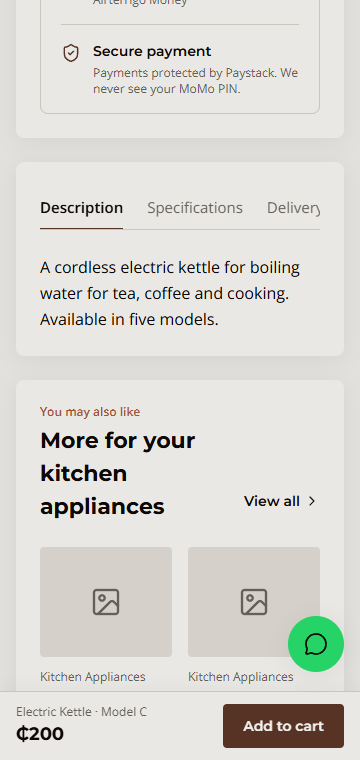
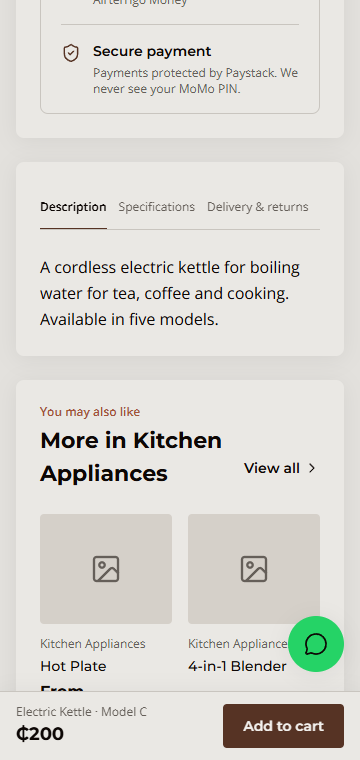
Product page: "More in {category}" heading and tabs that fit at 360 px
- Related products heading reads "More in Kitchen Appliances"
- Product tabs use 12 px text and a 12 px gap under 640 px, so all three
  fit at 360 px (the row still scrolls if a label runs longer)
- Re-took the product page screenshots

diff --git a/src/components/product/ProductDetailTabs.tsx b/src/components/product/ProductDetailTabs.tsx
@@ -19,14 +19,15 @@ export function ProductDetailTabs({ label, tabs }: ProductDetailTabsProps) {
       <div
         role="tablist"
         aria-label={label}
-        className="flex gap-6 overflow-x-auto border-b border-line [scrollbar-width:none] sm:gap-7 [&::-webkit-scrollbar]:hidden"
+        // Tighter under 640 px so all three tabs fit at 360 px; still scrolls if a label ever runs longer.
+        className="flex gap-3 overflow-x-auto border-b border-line [scrollbar-width:none] sm:gap-7 [&::-webkit-scrollbar]:hidden"
       >
         {tabs.map((tab, index) => (
           <button
             key={tab.key}
             {...tabProps(index)}
             className={cn(
-              "-mb-px min-h-11 shrink-0 border-b-2 text-[0.9375rem] whitespace-nowrap transition-colors motion-reduce:transition-none",
+              "-mb-px min-h-11 shrink-0 border-b-2 text-xs whitespace-nowrap sm:text-[0.9375rem] transition-colors motion-reduce:transition-none",
               index === selected
                 ? "border-brown font-semibold text-ink"
                 : "border-transparent text-muted hover:text-ink",

diff --git a/src/app/(store)/product/[slug]/page.tsx b/src/app/(store)/product/[slug]/page.tsx
@@ -190,7 +190,7 @@ export default async function ProductPage({ params }: PageProps) {
               <SectionHeader
                 id="related-products"
                 eyebrow="You may also like"
-                title={`More for your ${topCategory.name.toLowerCase()}`}
+                title={`More in ${topCategory.name}`}
                 viewAllHref={categoryHref(topCategory.slug)}
               />
               <ProductGrid products={related} layout="four" />

diff --git a/docs/decisions.md b/docs/decisions.md
@@ -16,7 +16,7 @@ These override anything older. Update this file when the client changes a decisi
 | Brand | Logo Option B ("Home & joy": a roof over a smile). Montserrat + Open Sans. Brown, terracotta, sand palette. |
 | Mobile | Figma shows desktop; every page is built responsive and phone-first from 360 px. |
 | Categories menu | Header bar, "All categories" menu, phone menu and footer "Shop" column all list the active top-level categories from the database (admin-editable, in sort order). The menu's deal card shows the most popular on-sale product in the hovered category, else the most popular in the shop, and is hidden when nothing is on sale. Menu names are shown in sentence case. |
-| Product page | The chosen model is kept in the URL (`?model=<SKU>`); default is the first in-stock model. Stock badge shows "In stock · N left" at 15 or fewer. "You may also like" shows the most popular products from the product's top-level category (child categories such as Kettles often hold one product). Out-of-stock models stay selectable and offer "Notify me on WhatsApp when it's back". |
+| Product page | The chosen model is kept in the URL (`?model=<SKU>`); default is the first in-stock model. Stock badge shows "In stock · N left" at 15 or fewer. "You may also like · More in {top-level category}" shows the most popular products from the product's top-level category (child categories such as Kettles often hold one product). Out-of-stock models stay selectable and offer "Notify me on WhatsApp when it's back". |
 
 ## Still waiting on the client
 - Real product photos
